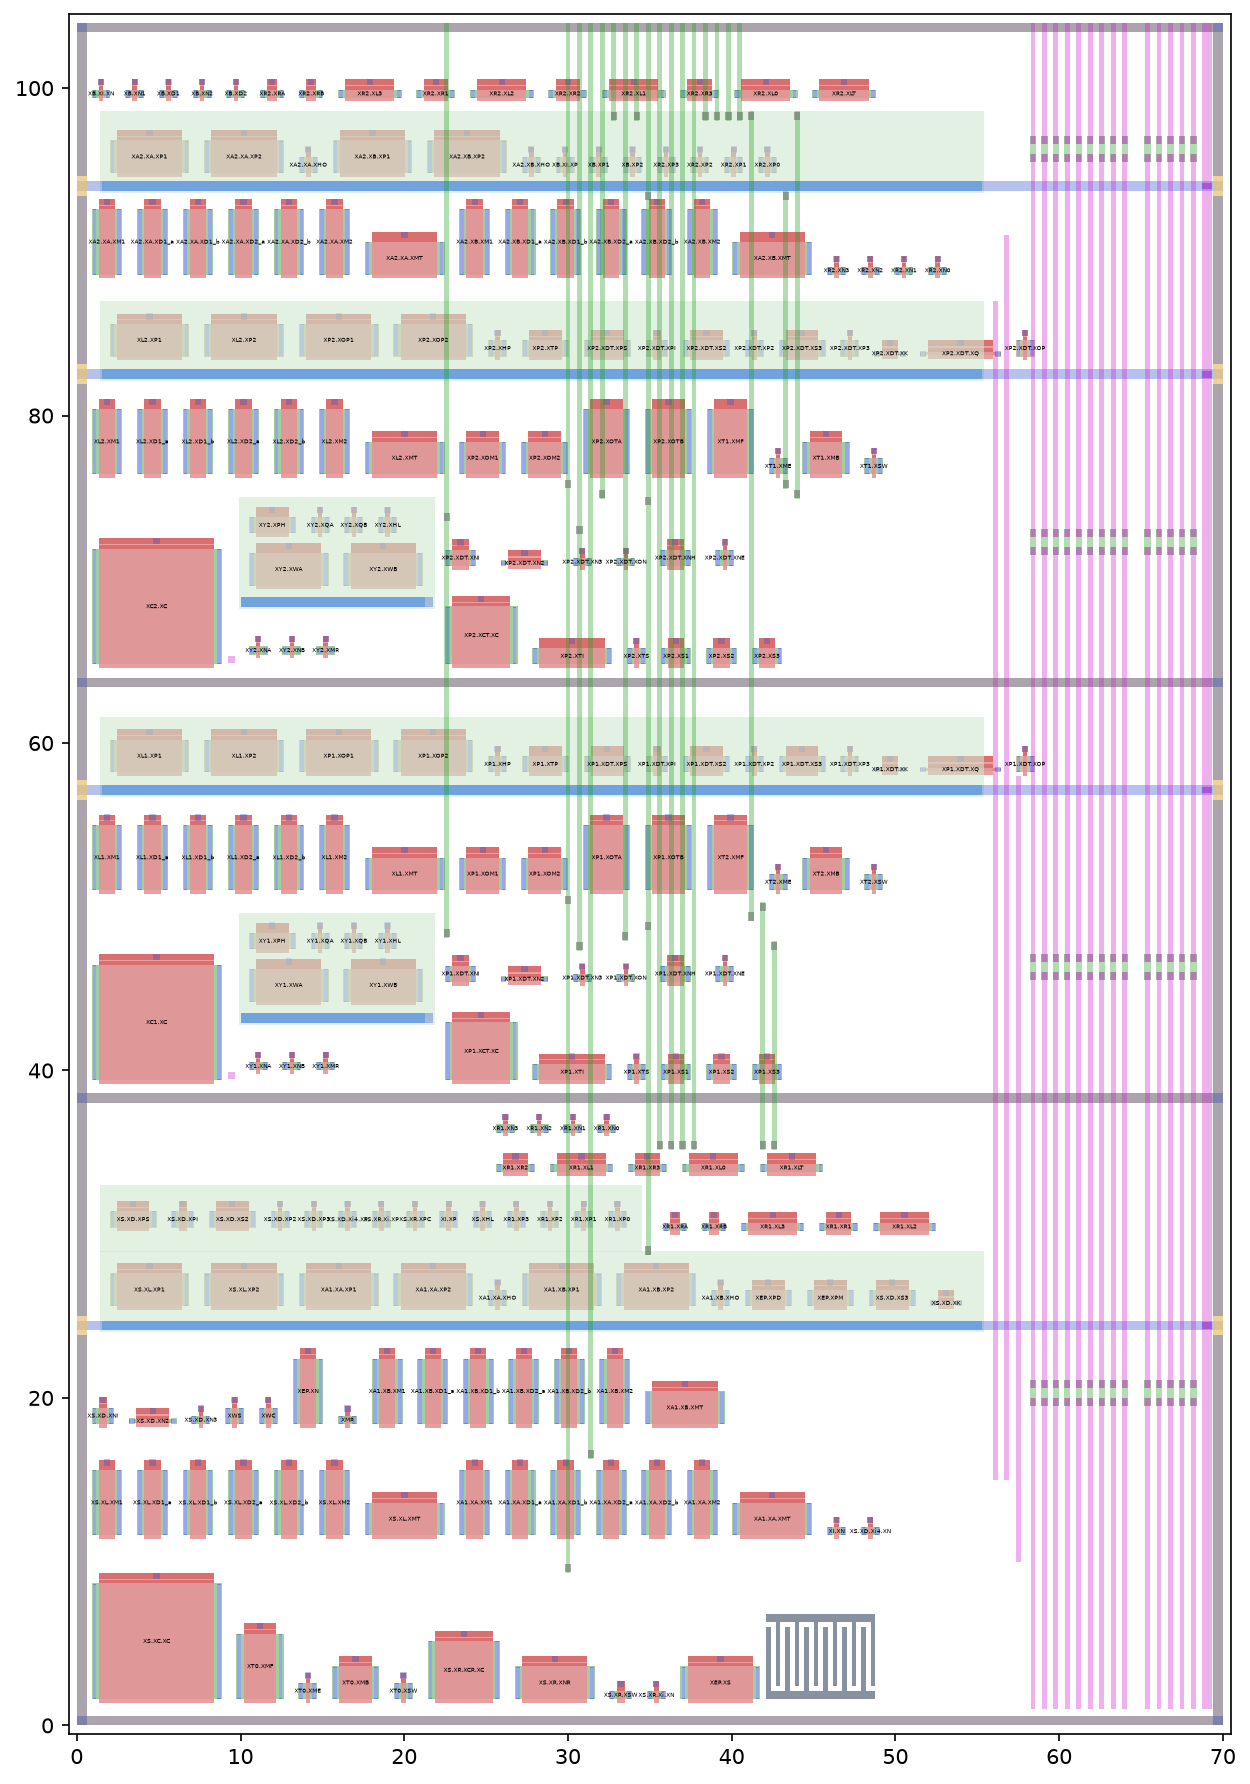
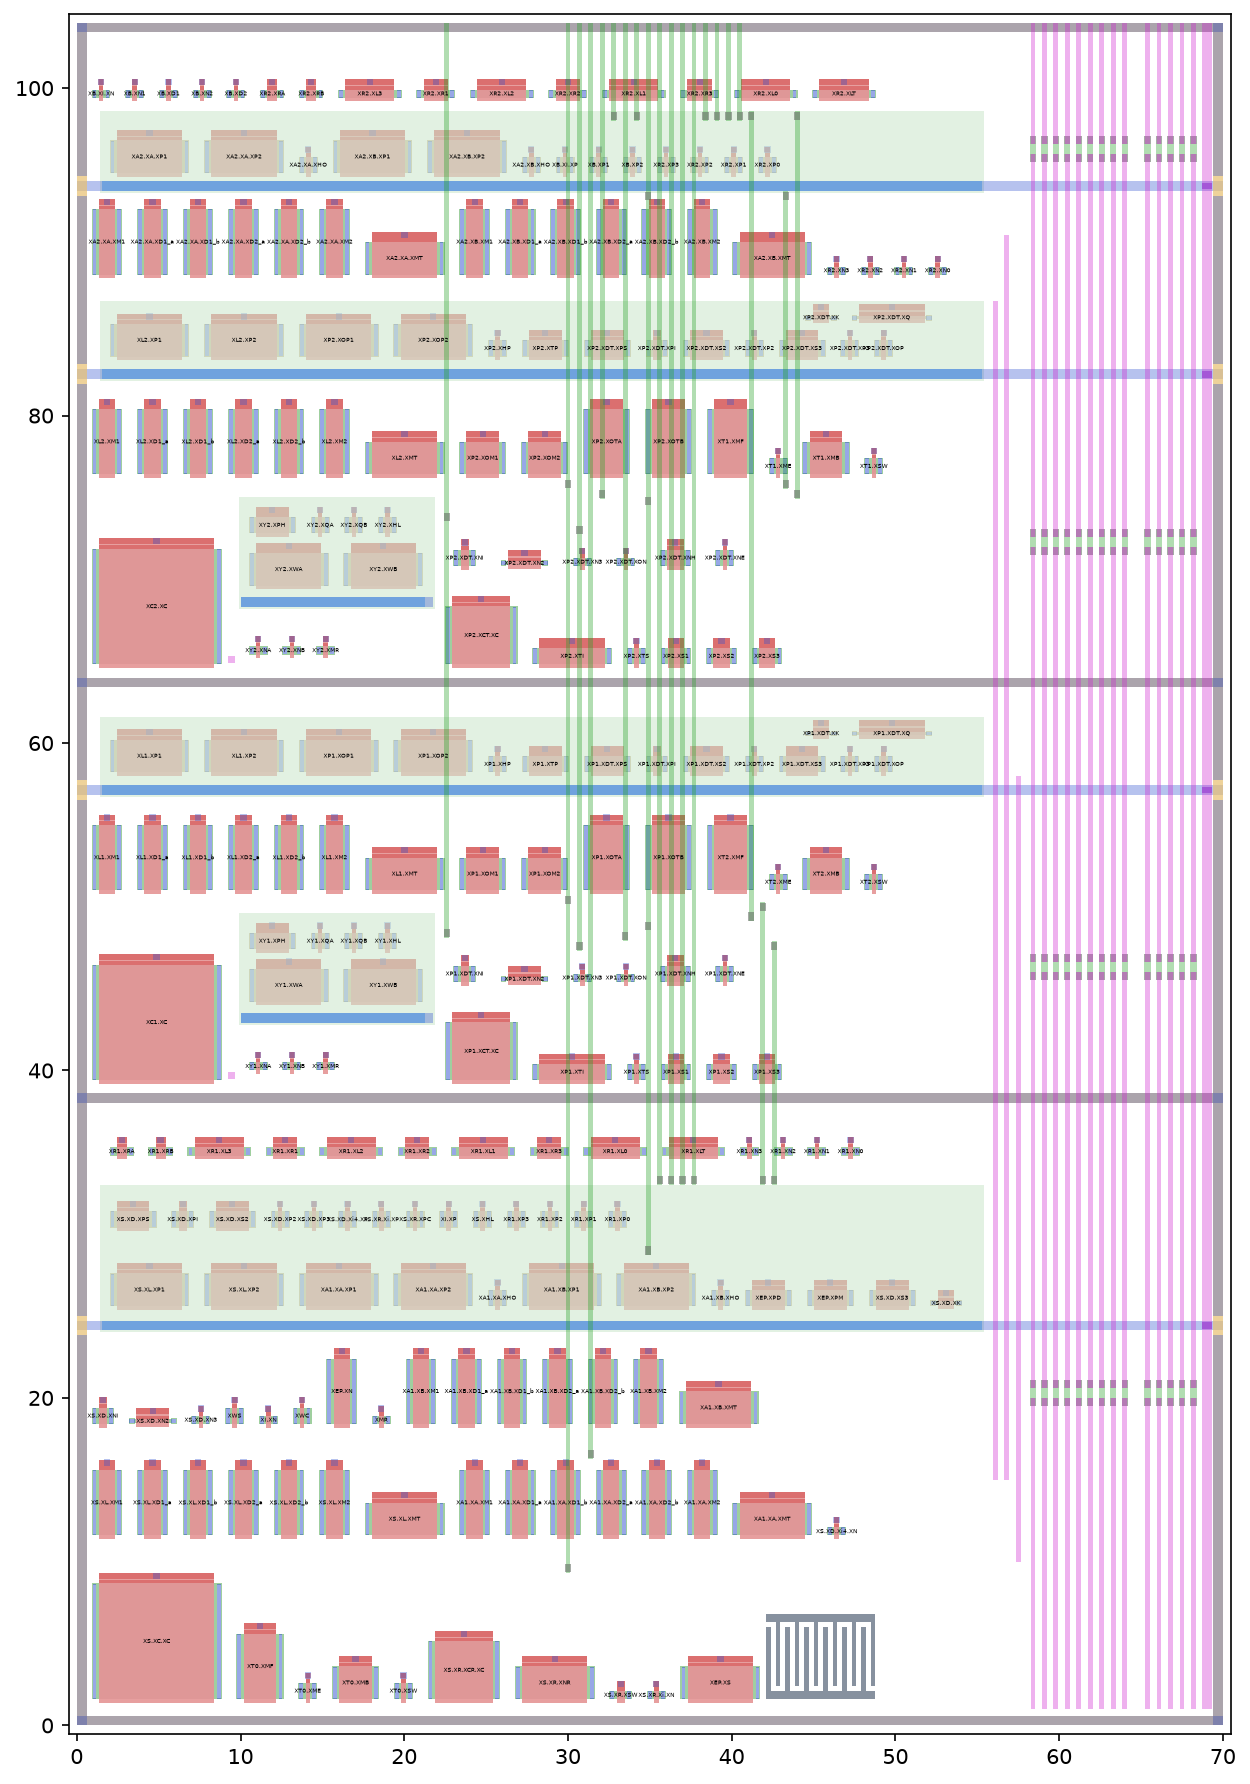
D1 layout prep for level 3: XNI L=0.5u kept in its old 1 um slot (dendgen SLOT_L) so the detector row doesn't shift; LVS ref regenerated; vm_d1_l3.sh (route, DRC, LVS, PEX, plateau benches)

diff --git a/layout/dendrite/dendgen.py b/layout/dendrite/dendgen.py
@@ -213,8 +213,16 @@ def split_wide(devs):
     return out
 
 
+# Fixed-slot devices: name -> gate length of the slot they keep. A shorter device is right-aligned in that slot (pad
+# on its left), so its drain stripe and every later device in the row stay where they were. Level 3 (schematic
+# 387f708): the plateau detector input XNI went 1/1 -> 1/0.5; packing it tight shifted XN2..XNE 0.5 um west, and the
+# region-1 trial route then stalled on a d1/vdd conflict (route_try.py 1), which the kept slot avoids.
+SLOT_L = {f"{p}.XDT.XNI": 1.0 for p in ("XP1", "XP2")}
+
+
 def placement(lib, devs):
     by = {d["name"]: lib[devcell(d)] for d in devs}
+    dl_by = {d["name"]: d["L"] for d in devs}
     place = {}
     for row in ROWS:
         yb, x0, names = row[0], row[1], row[-1]
@@ -223,6 +231,7 @@ def placement(lib, devs):
         for n in names:
             lc = by[n]
             dl, db, dr, dt = lc["diff"]
+            x += max(0.0, SLOT_L.get(n, 0.0) - dl_by[n])     # diffusion length grows 1:1 with L
             cx = snap(x - dl)
             cy = snap(yb - db)
             place[n] = (cx, cy)
